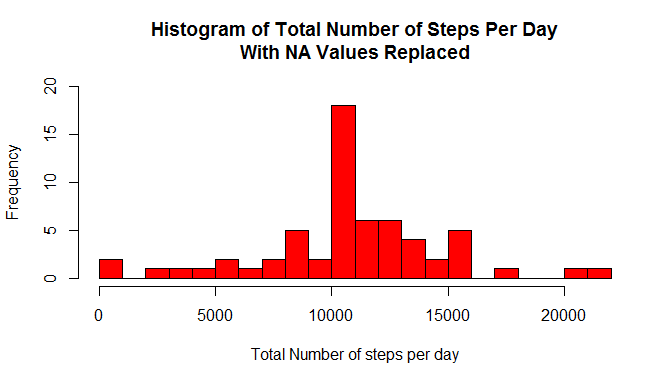
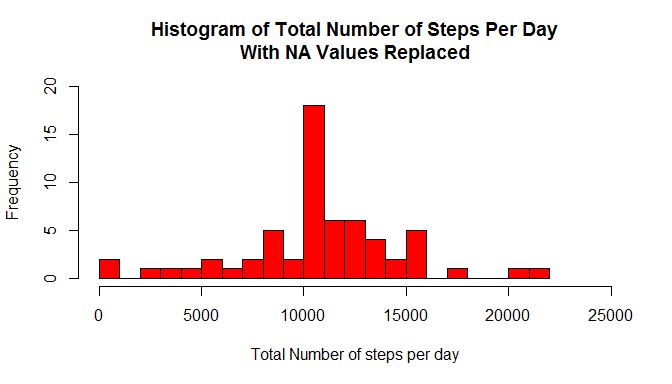
final submission of work

diff --git a/PA1_template.html b/PA1_template.html
@@ -55,6 +55,9 @@ if (window.hljs && document.readyState && document.readyState === "complete") {
 </div>
 
 
+<div id="global-setting" class="section level2">
+<h2>Global Setting</h2>
+</div>
 <div id="set-required-library" class="section level2">
 <h2>Set required library</h2>
 <pre class="r"><code>library(dplyr)
@@ -62,14 +65,16 @@ library(ggplot2)</code></pre>
 </div>
 <div id="loading-and-preprocessing-the-data" class="section level2">
 <h2>Loading and preprocessing the data</h2>
-<p>The data is loaded into a dataframe called “data”.</p>
+<ul>
+<li>Store the data “activity.csv” in a working directory (E.g.“C:\Rassignment\Cse5Project1”“)</li>
+<li>The data, a csv file format, is loaded into a dataframe called “data”.</li>
+</ul>
 <pre class="r"><code>setwd(&quot;C:\\Rassignment\\Cse5Project1&quot;)
 data &lt;- read.csv(&quot;activity.csv&quot;,header = TRUE,stringsAsFactor=FALSE)</code></pre>
 </div>
 <div id="what-is-mean-total-number-of-steps-taken-per-day" class="section level2">
 <h2>What is mean total number of steps taken per day?</h2>
-<pre class="r"><code>library(dplyr)
-nonNaData &lt;- filter(data,!is.na(steps))
+<pre class="r"><code>nonNaData &lt;- filter(data,!is.na(steps))
 byDate &lt;- group_by(nonNaData,date)
 result1 &lt;- summarise(byDate,sumsteps=sum(steps))
 hist(result1$sumsteps,breaks = 20,col=&quot;red&quot;,ylim=c(0,12),xlim=c(0,25000), xlab=&quot;Total Number of steps per day&quot;, main=&quot;Histogram of Total Number of Steps Per Day&quot;)</code></pre>
@@ -77,26 +82,28 @@ hist(result1$sumsteps,breaks = 20,col=&quot;red&quot;,ylim=c(0,12),xlim=c(0,2500
 <ul>
 <li>The mean and median is calculated as follow:</li>
 </ul>
-<pre class="r"><code>meanStep &lt;- as.character(round(mean(result1$sumsteps),2))
-medianStep &lt;- median(result1$sumsteps)</code></pre>
+<pre class="r"><code>meanStepWithNA &lt;- as.character(round(mean(result1$sumsteps),2))
+medianStepWithNA &lt;- as.character(round(median(result1$sumsteps),0))</code></pre>
 <p>The mean total number of steps per day is 10766.19 and the median is 10765.</p>
 </div>
 <div id="what-is-the-average-daily-activity-pattern" class="section level2">
 <h2>What is the average daily activity pattern?</h2>
 <pre class="r"><code>byInterval &lt;- group_by(nonNaData,interval)
 result2 &lt;- summarise(byInterval,avgsteps = mean(steps))
-plot(x=result2$interval,y=result2$avgsteps,type=&quot;l&quot;,xlab=&quot;5 Minute Interval&quot;,ylab=&quot;Average Number Of Steps&quot;, main=&quot;Average Daily Activity Pattern&quot;)</code></pre>
[1 lines of base64/hex data omitted]
+plot(x=result2$interval,y=result2$avgsteps,type=&quot;l&quot;,xlab=&quot;5-Minute Interval&quot;,ylab=&quot;Average Number Of Steps&quot;, main=&quot;Average Daily Activity Pattern&quot;)</code></pre>
[1 lines of base64/hex data omitted]
 <ul>
 <li>Calculation to identify 5-min interval with highest average steps is:</li>
 </ul>
-<pre class="r"><code>maxStep &lt;- result2$interval[which(result2$avgsteps==max(result2$avgsteps))]</code></pre>
-<p>The 5-min interval with highest average steps across all the days is 835.</p>
+<pre class="r"><code>maxStepInt &lt;- result2$interval[which(result2$avgsteps==max(result2$avgsteps))]</code></pre>
+<p>The 5-minute interval with highest average steps across all the days is 835.</p>
 </div>
 <div id="imputing-missing-values" class="section level2">
 <h2>Imputing missing values</h2>
 <ul>
-<li>Function to replace NA values in the data using mean step for each 5-min interval:</li>
+<li>Initial strategy was to replace the NA values using the mean of the total sum of steps for that day. Unfortunately, the NA values occur for an entire day leading to all NA values being replaced with zero value.</li>
+<li>The strategy finally used is to replace all the NA values at the interval level based on the mean step for each 5-minute interval.</li>
+<li>Function to replace NA values in the data using mean step for each 5-minute interval is as follow:</li>
 </ul>
 <pre class="r"><code>replaceNaStepsByInterval &lt;- function(argData){   
     dataWithNa &lt;- argData[is.na(argData$steps),]
@@ -122,15 +129,16 @@ plot(x=result2$interval,y=result2$avgsteps,type=&quot;l&quot;,xlab=&quot;5 Minut
 </ul>
 <pre class="r"><code>dataByDay &lt;- group_by(completeData,date)
 result4 &lt;- summarise(dataByDay,sumsteps=sum(steps))
-hist(result4$sumsteps,breaks = 20,col=&quot;red&quot;,ylim=c(0,20), xlab=&quot;Total Number of steps per day&quot;, main=&quot;Histogram of Total Number of Steps Per Day\nWith NA Values Replaced&quot;)</code></pre>
[1 lines of base64/hex data omitted]
+hist(result4$sumsteps,breaks = 20,col=&quot;red&quot;,ylim=c(0,20),xlim=c(0,25000),xlab=&quot;Total Number of steps per day&quot;, main=&quot;Histogram of Total Number of Steps Per Day\nWith NA Values Replaced&quot;)</code></pre>
[1 lines of base64/hex data omitted]
 <ul>
-<li>The mean and median are calculated as follow:</li>
+<li>The mean and median total number of steps taken per day for the above histogram are calculated as follow:</li>
 </ul>
-<pre class="r"><code>mean(result4$sumsteps)</code></pre>
-<pre><code>## [1] 10766.19</code></pre>
-<pre class="r"><code>median(result4$sumsteps)</code></pre>
-<pre><code>## [1] 10766.19</code></pre>
+<pre class="r"><code>meanStepWithNoNA &lt;- as.character(round(mean(result4$sumsteps),2))
+medianStepWithNoNA &lt;- as.character(round(median(result4$sumsteps),0))</code></pre>
+<ul>
+<li>The mean is 10766.19 and the median is 10766. In comparison with the initial mean 10766.19 and median 10765, the values does not differ much.</li>
+</ul>
 </div>
 <div id="are-there-differences-in-activity-patterns-between-weekdays-and-weekends" class="section level2">
 <h2>Are there differences in activity patterns between weekdays and weekends?</h2>
@@ -145,15 +153,17 @@ hist(result4$sumsteps,breaks = 20,col=&quot;red&quot;,ylim=c(0,20), xlab=&quot;T
         return(&quot;weekday&quot;)
 }</code></pre>
 <ul>
-<li>Panel plot comparing the average number of steps taken per 5-minute interval across weekdays and weekends:</li>
+<li>Create a new factor variable in the dataset with two levels - “weekday” and “weekend” indicating whether a given date is a weekday or weekend day.</li>
 </ul>
-<pre class="r"><code>colDayInd &lt;- sapply(completeData$date,dayOfWeekFunc)
-View(colDayInd)
-result5&lt;-cbind(completeData,DayIndicator=colDayInd)
-grpByInterval &lt;- group_by(result5,interval,DayIndicator)
+<pre class="r"><code>colDayInd &lt;- sapply(completeData$date,dayOfWeekFunc) # to create a column of &quot;weekend&quot; or &quot;weekday&quot; value.
+result5&lt;-cbind(completeData,DayIndicator=colDayInd)</code></pre>
+<ul>
+<li>Create a panel plot comparing the average number of steps taken per 5-minute interval across weekdays and weekends:</li>
+</ul>
+<pre class="r"><code>grpByInterval &lt;- group_by(result5,interval,DayIndicator)
 resultPlot &lt;- summarise(grpByInterval,averagestep = mean(steps))
-qplot(interval,averagestep,data=resultPlot,facets=DayIndicator~.,geom=&quot;line&quot;,xlab=&quot;5-min Interval&quot;,ylab=&quot;Average Number Of Steps&quot;)</code></pre>
[1 lines of base64/hex data omitted]
+qplot(interval,averagestep,data=resultPlot,facets=DayIndicator~.,geom=&quot;line&quot;,xlab=&quot;5-minute Interval&quot;,ylab=&quot;Average Number Of Steps&quot;)</code></pre>
[1 lines of base64/hex data omitted]
 </div>
 
 

diff --git a/PA1_template.md b/PA1_template.md
@@ -1,4 +1,5 @@
 # Reproducible Research: Peer Assessment 1
+## Global Setting
 
 
 ## Set required library
@@ -9,7 +10,8 @@ library(ggplot2)
 ```
 
 ## Loading and preprocessing the data
-The data is loaded into a dataframe called "data".
+- Store the data "activity.csv" in a working directory (E.g."C:\\Rassignment\\Cse5Project1"")
+- The data, a csv file format, is loaded into a dataframe called "data".
 
 ```r
 setwd("C:\\Rassignment\\Cse5Project1")
@@ -19,7 +21,6 @@ data <- read.csv("activity.csv",header = TRUE,stringsAsFactor=FALSE)
 ## What is mean total number of steps taken per day?
 
 ```r
-library(dplyr)
 nonNaData <- filter(data,!is.na(steps))
 byDate <- group_by(nonNaData,date)
 result1 <- summarise(byDate,sumsteps=sum(steps))
@@ -31,8 +32,8 @@ hist(result1$sumsteps,breaks = 20,col="red",ylim=c(0,12),xlim=c(0,25000), xlab="
 - The mean and median is calculated as follow:
 
 ```r
-meanStep <- as.character(round(mean(result1$sumsteps),2))
-medianStep <- median(result1$sumsteps)
+meanStepWithNA <- as.character(round(mean(result1$sumsteps),2))
+medianStepWithNA <- as.character(round(median(result1$sumsteps),0))
 ```
 The mean total number of steps per day is 10766.19 and the median is 10765.
 
@@ -42,7 +43,7 @@ The mean total number of steps per day is 10766.19 and the median is 10765.
 ```r
 byInterval <- group_by(nonNaData,interval)
 result2 <- summarise(byInterval,avgsteps = mean(steps))
-plot(x=result2$interval,y=result2$avgsteps,type="l",xlab="5 Minute Interval",ylab="Average Number Of Steps", main="Average Daily Activity Pattern")
+plot(x=result2$interval,y=result2$avgsteps,type="l",xlab="5-Minute Interval",ylab="Average Number Of Steps", main="Average Daily Activity Pattern")
 ```
 
 ![](PA1_template_files/figure-html/dailyActivityPattern-1.png) 
@@ -50,13 +51,14 @@ plot(x=result2$interval,y=result2$avgsteps,type="l",xlab="5 Minute Interval",yla
 - Calculation to identify 5-min interval with highest average steps is:
 
 ```r
-maxStep <- result2$interval[which(result2$avgsteps==max(result2$avgsteps))]
+maxStepInt <- result2$interval[which(result2$avgsteps==max(result2$avgsteps))]
 ```
-The 5-min interval with highest average steps across all the days is 835.
+The 5-minute interval with highest average steps across all the days is 835.
 
 ## Imputing missing values
-
-- Function to replace NA values in the data using mean step for each 5-min interval: 
+- Initial strategy was to replace the NA values using the mean of the total sum of steps for that day.  Unfortunately, the NA values occur for an entire day leading to all NA values being replaced with zero value. 
+- The strategy finally used is to replace all the NA values at the interval level based on the mean step for each 5-minute interval. 
+- Function to replace NA values in the data using mean step for each 5-minute interval is as follow: 
 
 ```r
 replaceNaStepsByInterval <- function(argData){   
@@ -87,28 +89,18 @@ completeData <- replaceNaStepsByInterval(data)
 ```r
 dataByDay <- group_by(completeData,date)
 result4 <- summarise(dataByDay,sumsteps=sum(steps))
-hist(result4$sumsteps,breaks = 20,col="red",ylim=c(0,20), xlab="Total Number of steps per day", main="Histogram of Total Number of Steps Per Day\nWith NA Values Replaced")
+hist(result4$sumsteps,breaks = 20,col="red",ylim=c(0,20),xlim=c(0,25000),xlab="Total Number of steps per day", main="Histogram of Total Number of Steps Per Day\nWith NA Values Replaced")
 ```
 
 ![](PA1_template_files/figure-html/plotHistComplete-1.png) 
 
-- The mean and median are calculated as follow:
+- The  mean and median total number of steps taken per day for the above histogram are calculated as follow:
 
 ```r
-mean(result4$sumsteps)
+meanStepWithNoNA <- as.character(round(mean(result4$sumsteps),2))
+medianStepWithNoNA <- as.character(round(median(result4$sumsteps),0))
 ```
-
-```
-## [1] 10766.19
-```
-
-```r
-median(result4$sumsteps)
-```
-
-```
-## [1] 10766.19
-```
+- The mean is 10766.19 and the median is 10766.  In comparison with the initial mean 10766.19 and median 10765,  the values does not differ much.
 
 ## Are there differences in activity patterns between weekdays and weekends?
 - Function to calculate if the date falls on a weekday or weekend:
@@ -123,16 +115,19 @@ dayOfWeekFunc <- function(arg){
 }
 ```
 
-- Panel plot comparing the average number of steps taken per 5-minute interval across weekdays and weekends:
-
+- Create a new factor variable in the dataset with two levels - "weekday" and "weekend" indicating whether a given date is a weekday or weekend day.
 
 ```r
-colDayInd <- sapply(completeData$date,dayOfWeekFunc)
-View(colDayInd)
+colDayInd <- sapply(completeData$date,dayOfWeekFunc) # to create a column of "weekend" or "weekday" value.
 result5<-cbind(completeData,DayIndicator=colDayInd)
+```
+
+- Create a panel plot comparing the average number of steps taken per 5-minute interval across weekdays and weekends:
+
+```r
 grpByInterval <- group_by(result5,interval,DayIndicator)
 resultPlot <- summarise(grpByInterval,averagestep = mean(steps))
-qplot(interval,averagestep,data=resultPlot,facets=DayIndicator~.,geom="line",xlab="5-min Interval",ylab="Average Number Of Steps")
+qplot(interval,averagestep,data=resultPlot,facets=DayIndicator~.,geom="line",xlab="5-minute Interval",ylab="Average Number Of Steps")
 ```
 
 ![](PA1_template_files/figure-html/panelPlot-1.png) 
